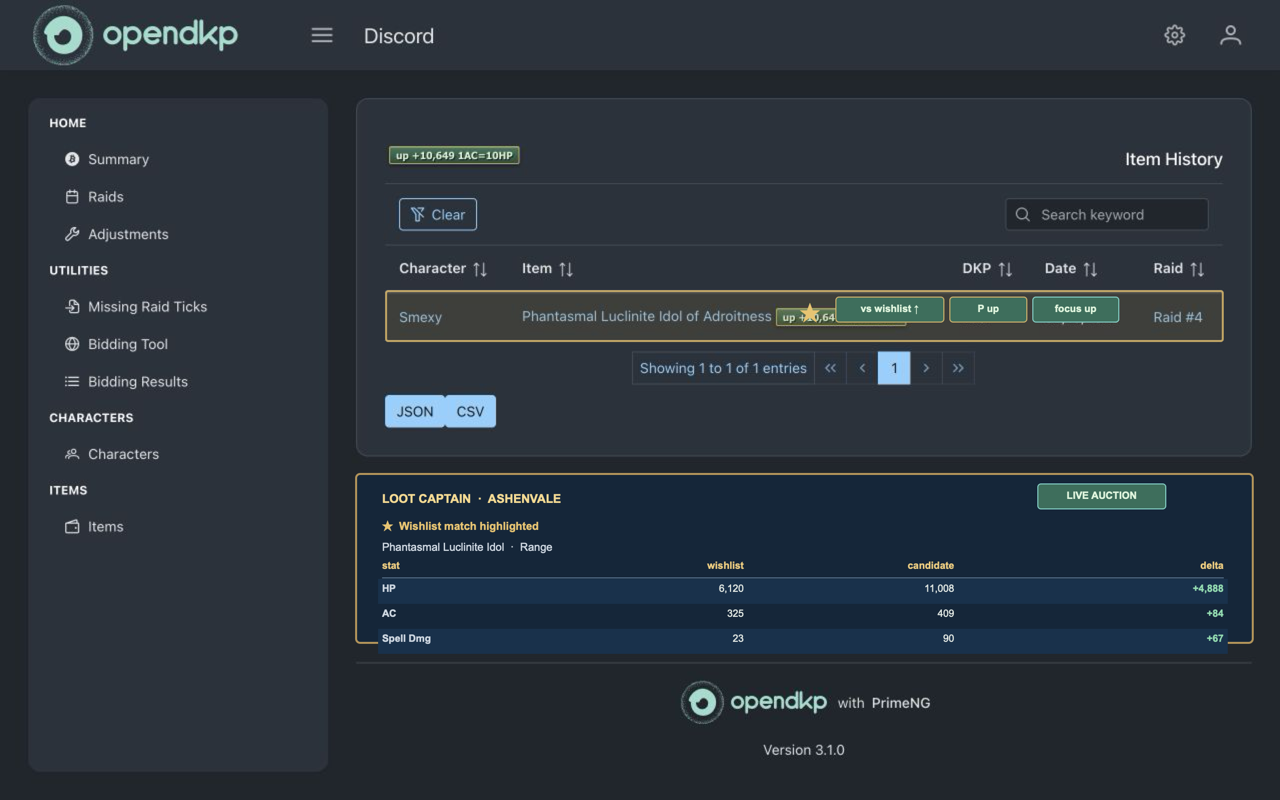
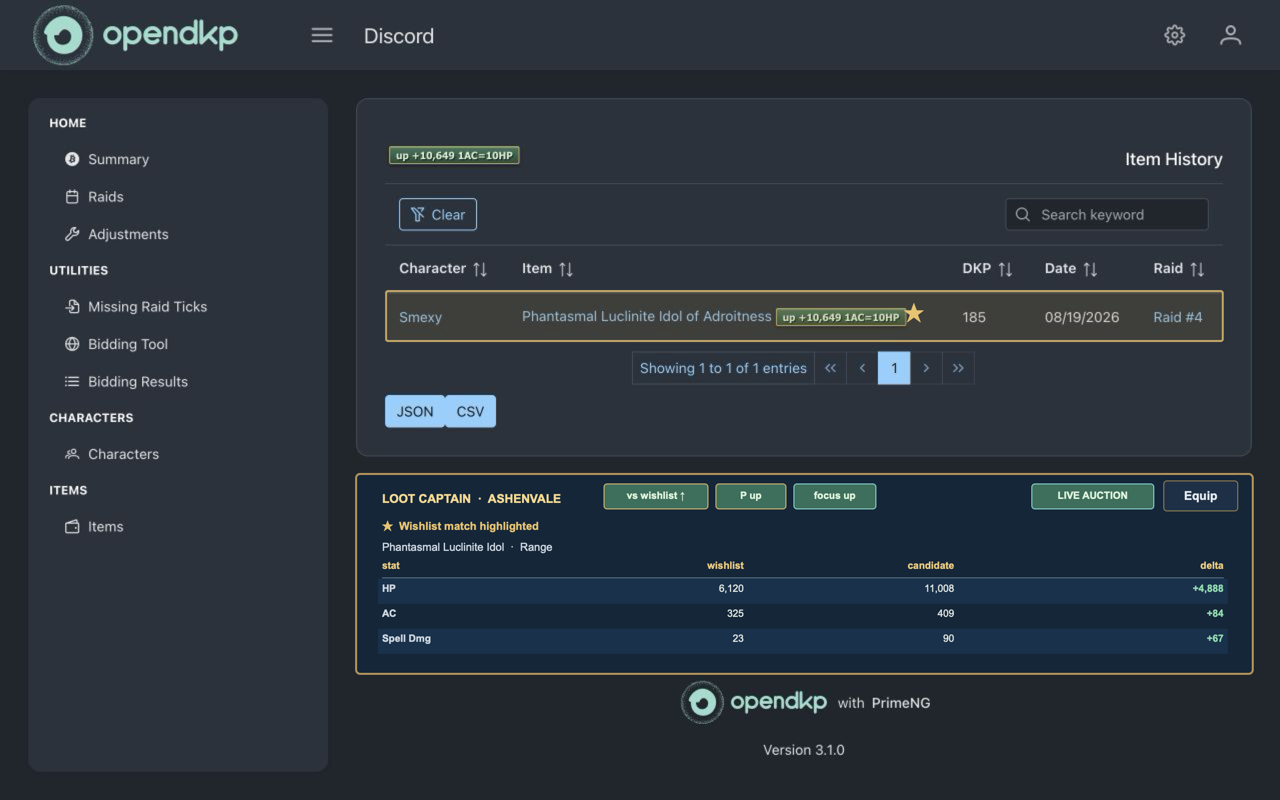
Prepare v0.4.0 release
Bump the manifest to 0.4.0 and refresh the release material for the
equip-from-comparison, compare-toggle, and PoP-era catalog work.

The store screenshots had not been regenerated since "Prepare to
publish", so they still showed a single active character with
Selected/Use Character buttons and a three-tab inventory strip. They now
show the per-row Compare checkbox with Manage, Fresh from RaidLoot and
Delete, the Wishlist tab, the last-equip undo bar, the Equip action in
the compare panel head, and per-character badges in the expanded layout.
Two pre-existing mock artifacts went with them: the RaidLoot wishlist
badge was drawn underneath the compare panel, and the OpenDKP mock
badges sat on top of the live capture's own badge with the diff table
overflowing its panel.

package-extension.sh now keeps only the newest two archives, so dist/
holds the current release and one previous build to roll back to.

diff --git a/tools/generate_store_visuals.swift b/tools/generate_store_visuals.swift
@@ -198,6 +198,12 @@ func drawStar(x: CGFloat, y: CGFloat, filled: Bool = true, size: CGFloat = 20) {
     drawText(filled ? "★" : "☆", x: x, y: y, size: size, fill: color(filled ? "#e0b95f" : "#b7974f"), bold: true, align: .center)
 }
 
+func drawCheckbox(x: CGFloat, y: CGFloat, label: String, checked: Bool) {
+    drawRect(NSRect(x: x, y: y, width: 14, height: 14), fill: color(checked ? "#c49945" : "#0d1826"), stroke: color(checked ? "#e4c16d" : "#7b6841"), radius: 2)
+    if checked { drawText("\u{2713}", x: x + 7, y: y, size: 12, fill: color("#1a170f"), bold: true, align: .center) }
+    drawText(label, x: x + 21, y: y, size: 11, fill: color("#dfe6ef"), bold: true)
+}
+
 func drawCompareTable(x: CGFloat, y: CGFloat, width: CGFloat, rows: [(String, String, String, String)], baseline: String = "wishlist") {
     let rowHeight: CGFloat = 25
     drawText("stat", x: x, y: y, size: 10, fill: color("#e6c26d"), bold: true)
@@ -252,42 +258,39 @@ let optionsImage = newImage(width: 1280, height: 800) {
     drawText("Local character profiles for gear comparison", x: 104, y: 54, size: 13, fill: color("#9eacbc"))
     drawText("CHARACTER SELECT / INVENTORY", x: 64, y: 96, size: 10, fill: color("#8e9daf"))
     drawText("Edit: Ashenvale", x: 64, y: 122, size: 24, fill: color("#e6c26d"), bold: true, serif: true)
-    drawText("Character", x: 592, y: 129, size: 10, fill: color("#aeb8c5"))
-    drawRect(NSRect(x: 652, y: 119, width: 170, height: 28), fill: color("#09121f"), stroke: color("#4b5b70"), radius: 2)
-    drawText("Ashenvale  ▾", x: 664, y: 126, size: 11, fill: color("#f0eee5"))
-    drawButton(x: 830, y: 119, width: 76, label: "+ New")
-    drawButton(x: 914, y: 119, width: 78, label: "Delete")
-    drawButton(x: 1000, y: 119, width: 78, label: "Save", primary: true)
-    drawButton(x: 1086, y: 119, width: 130, label: "← Back")
-    drawRect(NSRect(x: 64, y: 164, width: 1152, height: 170), fill: color("#17263a"), stroke: color("#6e603f"), radius: 5)
+    drawText("Character", x: 470, y: 129, size: 10, fill: color("#aeb8c5"))
+    drawRect(NSRect(x: 530, y: 119, width: 170, height: 28), fill: color("#09121f"), stroke: color("#4b5b70"), radius: 2)
+    drawText("Ashenvale  \u{25be}", x: 542, y: 126, size: 11, fill: color("#f0eee5"))
+    drawButton(x: 708, y: 119, width: 70, label: "+ New")
+    drawButton(x: 786, y: 119, width: 84, label: "\u{2190} Back")
+    drawButton(x: 878, y: 119, width: 78, label: "Delete")
+    drawButton(x: 964, y: 119, width: 168, label: "Refresh from RaidLoot")
+    drawButton(x: 1140, y: 119, width: 76, label: "Save", primary: true)
+    drawRect(NSRect(x: 64, y: 164, width: 1152, height: 122), fill: color("#17263a"), stroke: color("#6e603f"), radius: 5)
     drawText("CHARACTER SHEET", x: 84, y: 178, size: 12, fill: color("#f0d381"), bold: true)
     for (x, label, value, width) in [(84, "Name", "Ashenvale", 330), (448, "Class", "Beastlord", 330), (812, "Level", "100", 330)] {
-        drawText(label, x: CGFloat(x), y: 204, size: 11, fill: color("#9eacbc"))
-        drawRect(NSRect(x: CGFloat(x), y: 228, width: CGFloat(width), height: 27), fill: color("#07101b"), stroke: color("#4b5b70"), radius: 3)
-        drawText(value, x: CGFloat(x + 12), y: 234, size: 12, fill: color("#dfe6ef"))
+        drawText(label, x: CGFloat(x), y: 206, size: 11, fill: color("#9eacbc"))
+        drawRect(NSRect(x: CGFloat(x), y: 230, width: CGFloat(width), height: 27), fill: color("#07101b"), stroke: color("#4b5b70"), radius: 3)
+        drawText(value, x: CGFloat(x + 12), y: 236, size: 12, fill: color("#dfe6ef"))
     }
-    drawLine(NSPoint(x: 84, y: 274), NSPoint(x: 1196, y: 274), color: color("#3a4a61"))
-    drawText("WISHLIST", x: 84, y: 286, size: 11, fill: color("#e1bd69"), bold: true)
-    drawText("3 items", x: 1196, y: 286, size: 10, fill: color("#8bd0a9"), align: .right)
-    for (x, name, slot) in [(84, "Nebulous Assault's Cloak", "Back"), (420, "Dreadstone Band", "Finger"), (760, "Gleaming Augment", "Augment")] {
-        drawStar(x: CGFloat(x), y: 304, filled: true, size: 17)
-        drawText(name, x: CGFloat(x + 16), y: 307, size: 10, fill: color("#dfe6ef"), bold: true)
-        drawText(slot, x: CGFloat(x + 16), y: 322, size: 9, fill: color("#8e9daf"))
-    }
-    drawRect(NSRect(x: 64, y: 350, width: 1152, height: 400), fill: color("#17263a"), stroke: color("#6e603f"), radius: 5)
-    drawText("INVENTORY", x: 84, y: 362, size: 16, fill: color("#e1bd69"), bold: true, serif: true)
-    drawText("18 worn items  ·  4 augments  ·  4 gear effects", x: 280, y: 366, size: 10, fill: color("#8bd0a9"))
-    drawButton(x: 1100, y: 359, width: 90, label: "+ Add Item", disabled: true)
-    drawRect(NSRect(x: 84, y: 392, width: 700, height: 340), fill: color("#090e17"), stroke: color("#826738"), radius: 5, lineWidth: 2)
-    drawTabs(x: 96, y: 402, width: 676, labels: ["Equipment", "Augments", "Spell Focus"], active: 2)
-    drawText("SPELL FOCUS & PROCS", x: 108, y: 449, size: 10, fill: color("#9faec1"), bold: true)
-    drawFocusList(x: 108, y: 467, width: 652)
-    drawRect(NSRect(x: 108, y: 644, width: 652, height: 31), fill: color("#191a24"), stroke: color("#a27c40"), radius: 4)
-    drawText("Auto-Inventory", x: 120, y: 654, size: 10, fill: color("#efd080"), bold: true)
-    drawText("4 gear effects", x: 748, y: 654, size: 10, fill: color("#efd080"), bold: true, align: .right)
-    drawRect(NSRect(x: 802, y: 392, width: 394, height: 340), fill: color("#0b1523"), stroke: color("#52677f"), radius: 5)
-    drawButton(x: 1118, y: 402, width: 60, label: "Edit")
-    drawEffectDetails(x: 822, y: 410, width: 354)
+    drawRect(NSRect(x: 64, y: 302, width: 1152, height: 448), fill: color("#17263a"), stroke: color("#6e603f"), radius: 5)
+    drawText("INVENTORY", x: 84, y: 314, size: 16, fill: color("#e1bd69"), bold: true, serif: true)
+    drawText("18 worn items  \u{b7}  4 augments  \u{b7}  4 gear effects", x: 280, y: 318, size: 10, fill: color("#8bd0a9"))
+    drawButton(x: 1096, y: 311, width: 94, label: "+ Add Item", disabled: true)
+    // Undo bar for the most recent equip made from a comparison row.
+    drawRect(NSRect(x: 84, y: 346, width: 1112, height: 34), fill: color("#191a24"), stroke: color("#a27c40"), radius: 4)
+    drawText("Last equip: Nebulous Assault\u{2019}s Cloak  \u{2192}  Phantasmal Luclinite Idol", x: 100, y: 357, size: 11, fill: color("#efd080"), bold: true)
+    drawButton(x: 1100, y: 348, width: 80, label: "Undo")
+    drawRect(NSRect(x: 84, y: 394, width: 700, height: 344), fill: color("#090e17"), stroke: color("#826738"), radius: 5, lineWidth: 2)
+    drawTabs(x: 96, y: 404, width: 676, labels: ["Equipment", "Augments", "Spell Focus", "Wishlist"], active: 2)
+    drawText("SPELL FOCUS & PROCS", x: 108, y: 451, size: 10, fill: color("#9faec1"), bold: true)
+    drawFocusList(x: 108, y: 469, width: 652)
+    drawRect(NSRect(x: 108, y: 646, width: 652, height: 31), fill: color("#191a24"), stroke: color("#a27c40"), radius: 4)
+    drawText("Auto-Inventory", x: 120, y: 656, size: 10, fill: color("#efd080"), bold: true)
+    drawText("4 gear effects", x: 748, y: 656, size: 10, fill: color("#efd080"), bold: true, align: .right)
+    drawRect(NSRect(x: 802, y: 394, width: 394, height: 344), fill: color("#0b1523"), stroke: color("#52677f"), radius: 5)
+    drawButton(x: 1118, y: 404, width: 60, label: "Edit")
+    drawEffectDetails(x: 822, y: 412, width: 354)
 }
 
 let characterSelectImage = newImage(width: 1280, height: 800) {
@@ -299,20 +302,26 @@ let characterSelectImage = newImage(width: 1280, height: 800) {
     drawText("CHARACTER SELECT / INVENTORY", x: 64, y: 102, size: 10, fill: color("#8e9daf"))
     drawText("Character Select", x: 64, y: 126, size: 24, fill: color("#e6c26d"), bold: true, serif: true)
     drawButton(x: 1018, y: 119, width: 198, label: "+ New Character", primary: true)
-    let profiles: [(String, String, String, String)] = [
-        ("Ashenvale", "Beastlord · Level 100", "22 items", "Selected"),
-        ("Starfall", "Ranger · Level 100", "19 items", "Use Character"),
-        ("Lanternroot", "Cleric · Level 95", "17 items", "Use Character")
+    // Rows carry a Compare toggle rather than a single active character:
+    // every checked profile is compared on RaidLoot and OpenDKP.
+    let profiles: [(String, String, String, Bool, Bool)] = [
+        ("Ashenvale", "Beastlord · Lv 100", "22 items", true, true),
+        ("Starfall", "Ranger · Lv 100", "19 items", true, false),
+        ("Lanternroot", "Cleric · Lv 95", "17 items", false, true)
     ]
     for (index, profile) in profiles.enumerated() {
         let y = 174 + CGFloat(index) * 78
-        drawRect(NSRect(x: 64, y: y, width: 1152, height: 64), fill: color("#17263a"), stroke: color(index == 0 ? "#b08b44" : "#6e603f"), radius: 4)
+        drawRect(NSRect(x: 64, y: y, width: 1152, height: 64), fill: color("#17263a"), stroke: color(profile.3 ? "#b08b44" : "#6e603f"), radius: 4)
         drawIcon(NSRect(x: 82, y: y + 10, width: 42, height: 42))
         drawText(profile.0, x: 140, y: y + 16, size: 17, fill: color("#f1dfaa"), bold: true, serif: true)
         drawText(profile.1, x: 140, y: y + 39, size: 12, fill: color("#aeb8c5"))
-        drawText(profile.2, x: 720, y: y + 27, size: 12, fill: color("#aeb8c5"))
-        drawButton(x: 1016, y: y + 17, width: 160, label: profile.3, primary: index == 0)
+        drawText(profile.2, x: 600, y: y + 27, size: 12, fill: color("#aeb8c5"))
+        drawButton(x: 758, y: y + 17, width: 84, label: "Manage")
+        if profile.4 { drawButton(x: 850, y: y + 17, width: 152, label: "Fresh from RaidLoot") }
+        drawCheckbox(x: 1014, y: y + 26, label: "Compare", checked: profile.3)
+        drawButton(x: 1120, y: y + 17, width: 76, label: "Delete")
     }
+    drawText("Checked characters are compared together on RaidLoot and OpenDKP.", x: 64, y: 398, size: 11, fill: color("#8e9daf"))
     drawRect(NSRect(x: 64, y: 426, width: 1152, height: 102), fill: color("#17263a"), stroke: color("#6e603f"), radius: 4)
     drawText("COMPARISON FORMULA", x: 84, y: 442, size: 12, fill: color("#e1bd69"), bold: true)
     drawText("USED ON RAIDLOOT & OPENDKP", x: 1022, y: 442, size: 11, fill: color("#8bd0a9"), bold: true, align: .right)
@@ -338,17 +347,20 @@ let raidLootImage = newImage(width: 1280, height: 800) {
     drawSourceImage("raidloot-live-base.jpg", rect: NSRect(x: 0, y: 0, width: 1280, height: 800))
     // The live page leaves a wide margin beside the item detail; use it for
     // the extension's intentionally compact, click-through comparison panel.
-    drawStar(x: 620, y: 77, filled: true, size: 22)
-    drawBadge(x: 646, y: 76, width: 110, label: "vs wishlist ↑")
+    drawStar(x: 366, y: 92, filled: true, size: 22)
+    drawBadge(x: 386, y: 93, width: 110, label: "vs wishlist ↑")
     drawRect(NSRect(x: 674, y: 68, width: 540, height: 700), fill: color("#0b1523", alpha: 0.97), stroke: color("#a38348"), radius: 4, lineWidth: 2)
     drawText("LOOT CAPTAIN", x: 698, y: 88, size: 12, fill: color("#d8b767"), bold: true)
     drawText("Ashenvale  ·  Beastlord  ·  Level 100", x: 698, y: 111, size: 12, fill: color("#b7c4d2"))
     drawStar(x: 700, y: 137, filled: true, size: 22)
     drawText("Nebulous Assault's Cloak", x: 716, y: 141, size: 15, fill: color("#f0d381"), bold: true, serif: true)
     drawText("Local wishlist baseline", x: 716, y: 163, size: 10, fill: color("#8bd0a9"))
-    drawBadge(x: 698, y: 184, width: 108, label: "up +1,240")
-    drawBadge(x: 816, y: 184, width: 86, label: "focus up", state: "focus")
-    drawBadge(x: 912, y: 184, width: 92, label: "R proc up", state: "focus")
+    // Equip writes the page item into the local profile for this slot.
+    drawButton(x: 1096, y: 136, width: 84, label: "Equip")
+    // Expanded badge layout: every compared character is labeled in the row.
+    drawBadge(x: 698, y: 184, width: 152, label: "Ashenvale back up +1,240")
+    drawBadge(x: 858, y: 184, width: 140, label: "Starfall back dn -320", state: "downgrade")
+    drawBadge(x: 1006, y: 184, width: 90, label: "focus up", state: "focus")
     drawText("COMPARE VS WISHLIST", x: 698, y: 231, size: 11, fill: color("#e6c26d"), bold: true)
     drawCompareTable(x: 698, y: 250, width: 482, rows: [
         ("HP", "6,120", "11,008", "+4,888"),
@@ -361,7 +373,7 @@ let raidLootImage = newImage(width: 1280, height: 800) {
     drawText("PROC (1 change)", x: 698, y: 432, size: 10, fill: color("#d8b767"), bold: true)
     drawText("Strike of Ice  ·  900 dmg  →  1,200 dmg", x: 698, y: 451, size: 11, fill: color("#9ee0d6"))
     drawLine(NSPoint(x: 698, y: 481), NSPoint(x: 1180, y: 481), color: color("#465d78"))
-    drawText("Click any badge for the full stat/effect diff.", x: 698, y: 502, size: 11, fill: color("#c3ceda"))
+    drawText("Click any badge for the full diff, or Equip to update the local profile.", x: 698, y: 502, size: 11, fill: color("#c3ceda"))
     drawText("Profiles and wishlist data stay in this browser.", x: 698, y: 523, size: 10, fill: color("#8e9daf"))
 }
 
@@ -369,13 +381,16 @@ let openDkpImage = newImage(width: 1280, height: 800) {
     drawSourceImage("opendkp-item-live.jpg", rect: NSRect(x: 0, y: 0, width: 1280, height: 800))
     // Live auction rows are highlighted only when a local wishlist matches.
     drawRect(NSRect(x: 386, y: 291, width: 837, height: 50), fill: color("#8c6e29", alpha: 0.16), stroke: color("#d3ae5a", alpha: 0.82), radius: 2, lineWidth: 2)
-    drawStar(x: 810, y: 302, filled: true, size: 20)
-    drawBadge(x: 836, y: 297, width: 108, label: "vs wishlist ↑")
-    drawBadge(x: 950, y: 297, width: 77, label: "P up")
-    drawBadge(x: 1033, y: 297, width: 86, label: "focus up", state: "focus")
-    drawRect(NSRect(x: 356, y: 474, width: 897, height: 169), fill: color("#111c2b", alpha: 0.98), stroke: color("#a38348"), radius: 4, lineWidth: 2)
+    // The live capture already carries the extension's own stat badge, so the
+    // row only gains the wishlist star; the diff badges live in the panel head.
+    drawStar(x: 914, y: 302, filled: true, size: 20)
+    drawRect(NSRect(x: 356, y: 474, width: 897, height: 200), fill: color("#111c2b", alpha: 0.98), stroke: color("#a38348"), radius: 4, lineWidth: 2)
     drawText("LOOT CAPTAIN  ·  ASHENVALE", x: 382, y: 492, size: 12, fill: color("#f0d381"), bold: true)
-    drawBadge(x: 1038, y: 484, width: 128, label: "LIVE AUCTION", state: "focus")
+    drawBadge(x: 604, y: 484, width: 104, label: "vs wishlist ↑")
+    drawBadge(x: 716, y: 484, width: 70, label: "P up")
+    drawBadge(x: 794, y: 484, width: 82, label: "focus up", state: "focus")
+    drawBadge(x: 1032, y: 484, width: 122, label: "LIVE AUCTION", state: "focus")
+    drawButton(x: 1164, y: 481, width: 74, label: "Equip")
     drawText("★  Wishlist match highlighted", x: 382, y: 520, size: 11, fill: color("#e0b95f"), bold: true)
     drawText("Phantasmal Luclinite Idol  ·  Range", x: 382, y: 541, size: 11, fill: color("#c3ceda"))
     drawCompareTable(x: 382, y: 560, width: 842, rows: [

diff --git a/docs/store-listing.md b/docs/store-listing.md
@@ -18,6 +18,7 @@ Loot Captain helps you:
 - Compare numeric stats, augments, spell focus effects, weapon procs, and Damage/Delay ratio.
 - Handle paired ear, wrist, and finger slots automatically.
 - Save a local wishlist and highlight wanted items in RaidLoot and OpenDKP auctions.
+- Equip a won item into a local profile straight from its comparison row, with undo in the character editor.
 - Fill in missing item stats from public RaidLoot pages.
 - Resolve statless armor tokens through 630 offline, source-reviewed mappings covering PoP, GoD, OoW, PoR, TSS, UF, HoT and VoA plus RoF through ToB.
 
@@ -25,13 +26,15 @@ Profiles and settings stay in browser-local storage. Loot Captain has no account
 
 Support ongoing development: https://github.com/sponsors/jxmtoma
 
-### What's new in 0.2.0
+### What's new in 0.4.0
 
-- Added 357 statless armor-token mappings covering RoF plus CoTF through ToB.
-- Added class-specific RaidLoot caching and native variants, plus ordinary lookup caching.
-- Added OpenDKP live-auction tab badges and wanted-item highlights, with name-slot parsing fixes.
+- Equip an item into a local character profile from its comparison row on RaidLoot or OpenDKP, with an inline confirmation naming both items. An item the profile already holds shows as equipped instead, and the character editor offers a one-step undo of the most recent equip. This updates Loot Captain's stored profile only; it does not change the character in EverQuest.
+- Moved the wishlist into the character editor's inventory tab strip, shown as a game-style slot grid or a plain list.
+- Replaced the options page's single active character with a per-row Compare checkbox that shares the popup's selection, added a "Fresh from RaidLoot" button on rows imported from a RaidLoot profile, and dropped deleted characters from the compare selection.
+- Extended the statless armor-token catalog back to Planes of Power: 357 to 630 offline mappings adding PoP, GoD, OoW, PoR, TSS, UF, HoT and VoA. PoP and TSS templates are scoped to an armor type rather than every class, so a token a class cannot use is refused instead of resolving to the wrong piece.
+- Compare panels, wishlist panels, and pickers now close when clicking elsewhere on the page, while the wishlist character picker stays open while characters are selected.
 
-The armor catalog uses offline, source-reviewed definitions; it does not use a live crawler or request new permissions. Incomplete or unavailable RaidLoot sets remain unresolved.
+The armor catalog uses offline, source-reviewed definitions; it does not use a live crawler or request new permissions. Incomplete or unavailable RaidLoot sets remain unresolved. This release adds no permissions and no new hosts.
 
 ### Category and language
 
@@ -81,10 +84,11 @@ The repository includes current, correctly sized PNGs in `store-assets/`:
 
 The store icon is `icons/icon128.png`. A YouTube promotional video link remains a manual listing step because no video is included in this repository.
 
-## Release submission checklist for 0.2.0
+## Release submission checklist for 0.4.0
 
 - Run `node tests/regression.js`.
 - Run `python3 tools/generate_armor_token_catalog.py --check`.
-- Run `./tools/package-extension.sh` and confirm `dist/loot-captain-v0.2.0.zip`.
+- Run `swift tools/generate_store_visuals.swift` from the repository root when the UI changed, and re-upload the refreshed screenshots.
+- Run `./tools/package-extension.sh` and confirm `dist/loot-captain-v0.4.0.zip`. The script keeps only the newest two archives, so the previous release stays available to roll back to.
 - Load unpacked for a smoke test, profile switch, and variant check before manually uploading to the Chrome Web Store / Edge.
 - Verify the hosted privacy policy before submission.

diff --git a/README.md b/README.md
@@ -53,6 +53,14 @@ Create the Chrome Web Store upload ZIP with:
 ./tools/package-extension.sh
 ```
 
-The versioned archive is written to `dist/` and contains only the extension runtime files.
+The versioned archive is written to `dist/` and contains only the extension runtime files. Only the newest two archives are kept, so the previous release stays available to roll back to.
+
+Regenerate the store screenshots, promo tiles, and icons after a UI change with:
+
+```sh
+swift tools/generate_store_visuals.swift
+```
+
+Run it from the repository root; it writes to `store-assets/`, `docs/assets/`, and `icons/`.
 
 The Chrome Web Store ZIP should contain only `background/`, `content/`, `icons/`, `options/`, `popup/`, and `manifest.json`. Upload the current screenshots and promotional tiles from `store-assets/`, plus `docs/store-listing.md` and the privacy policy, separately. The legacy standalone userscript is intentionally not part of the release.
